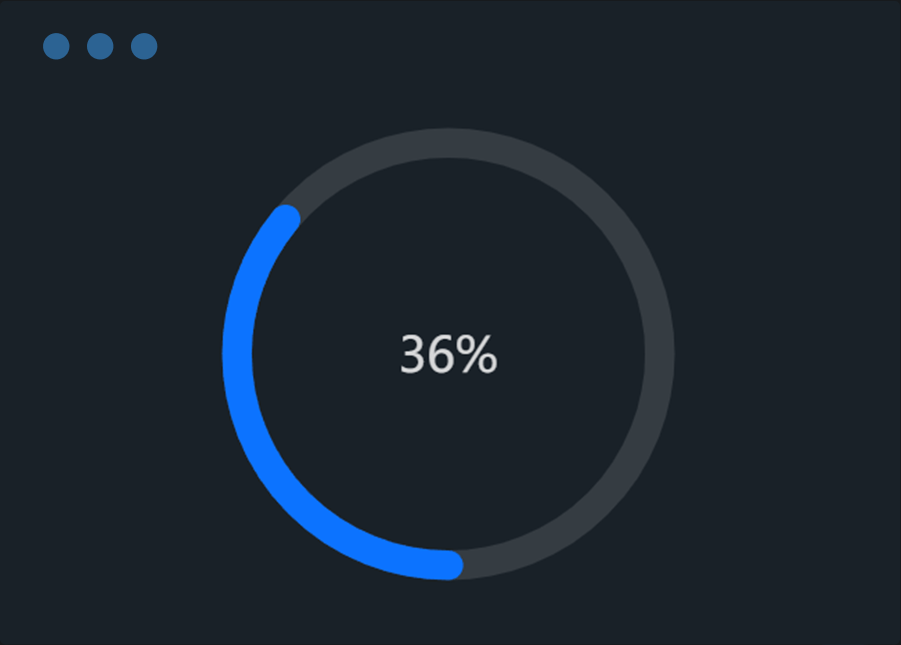
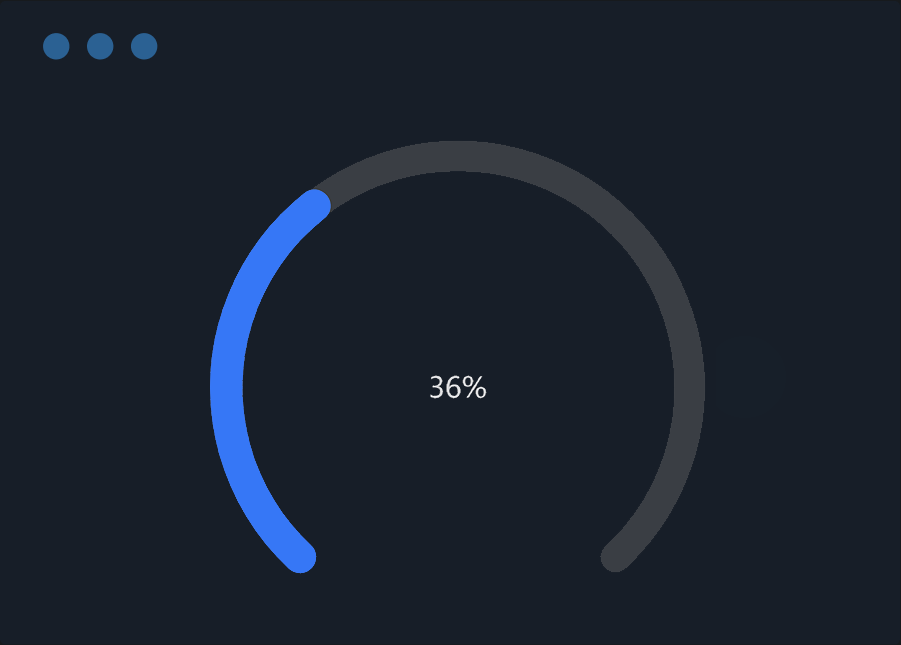
feat: 新增环形图，新增NaiveUI-进度组件

diff --git a/src/packages/components/Charts/Pies/PieCircle/config.vue b/src/packages/components/Charts/Pies/PieCircle/config.vue
@@ -1,0 +1,89 @@
+<template>
+  <!-- 遍历 seriesList -->
+  <CollapseItem v-for="(item, index) in config.series" :key="index" :name="`圆环`" :expanded="true">
+    <SettingItemBox name="数据">
+      <SettingItem name="数值">
+        <n-input-number v-model:value="config.dataset" :min="0" :max="1" :step="0.01" size="small" placeholder="数值">
+        </n-input-number>
+      </SettingItem>
+    </SettingItemBox>
+    <!-- Echarts 全局设置 -->
+    <SettingItemBox name="进度条">
+      <SettingItem name="颜色">
+        <n-color-picker
+          size="small"
+          :modes="['hex']"
+          v-model:value="item.data[0].itemStyle.color"
+        ></n-color-picker>
+      </SettingItem>
+      <SettingItem name="阴影模糊等级">
+        <n-input-number v-model:value="item.data[0].itemStyle.shadowBlur" :min="0" :max="50" :step="1" size="small" placeholder="阴影模糊等级">
+        </n-input-number>
+      </SettingItem>
+      <SettingItem name="阴影颜色">
+        <n-color-picker
+          size="small"
+          :modes="['hex']"
+          v-model:value="item.data[0].itemStyle.shadowColor"
+        ></n-color-picker>
+      </SettingItem>
+    </SettingItemBox>
+    <!-- 中心标题 -->
+    <SettingItemBox v-if="config.title" name="标题">
+      <SettingItem name="颜色">
+        <n-color-picker
+          size="small"
+          :modes="['hex']"
+          v-model:value="config.title.textStyle.color"
+        ></n-color-picker>
+      </SettingItem>
+      <SettingItem name="字体大小">
+        <n-input-number v-model:value="config.title.textStyle.fontSize" :min="0" :step="1" size="small" placeholder="字体大小">
+        </n-input-number>
+      </SettingItem>
+    </SettingItemBox>
+    <!-- 其他样式 -->
+    <SettingItemBox name="轨道样式">
+      <SettingItem name="颜色">
+        <n-color-picker
+          size="small"
+          :modes="['hex']"
+          v-model:value="item.data[1].itemStyle.color"
+        ></n-color-picker>
+      </SettingItem>
+      <SettingItem name="阴影模糊等级">
+        <n-input-number v-model:value="item.data[1].itemStyle.shadowBlur" :min="0" :step="1" size="small" placeholder="阴影模糊等级">
+        </n-input-number>
+      </SettingItem>
+      <SettingItem name="阴影颜色">
+        <n-color-picker
+          size="small"
+          :modes="['hex']"
+          v-model:value="item.data[1].itemStyle.shadowColor"
+        ></n-color-picker>
+      </SettingItem>
+    </SettingItemBox>
+  </CollapseItem>
+</template>
+
+<script setup lang="ts">
+import { PropType, computed } from 'vue'
+// 以下是封装的设置模块布局组件，具体效果可在官网查看
+import {
+  CollapseItem,
+  SettingItemBox,
+  SettingItem
+} from '@/components/Pages/ChartItemSetting'
+import { GlobalThemeJsonType } from '@/settings/chartThemes'
+
+const props = defineProps({
+  optionData: {
+    type: Object as PropType<GlobalThemeJsonType>,
+    required: true
+  }
+})
+
+const config = computed(() => {
+  return props.optionData
+})
+</script>

diff --git a/src/packages/components/Charts/Pies/PieCircle/index.vue b/src/packages/components/Charts/Pies/PieCircle/index.vue
@@ -1,0 +1,71 @@
+<template>
+  <v-chart ref="vChartRef" :theme="themeColor" :option="option.value" :manual-update="isPreview()" autoresize></v-chart>
+</template>
+
+<script setup lang="ts">
+import {computed, PropType, reactive, watch} from 'vue'
+import VChart from 'vue-echarts'
+import { use } from 'echarts/core'
+import { CanvasRenderer } from 'echarts/renderers'
+import { PieChart } from 'echarts/charts'
+import { mergeTheme } from '@/packages/public/chart'
+import config, { includes } from './config'
+import { useChartDataFetch } from '@/hooks'
+import { useChartEditStore } from '@/store/modules/chartEditStore/chartEditStore'
+import { isPreview } from '@/utils'
+import {
+  DatasetComponent,
+  GridComponent,
+  TooltipComponent,
+  LegendComponent,
+  TitleComponent,
+} from 'echarts/components'
+
+const props = defineProps({
+  themeSetting: {
+    type: Object,
+    required: true
+  },
+  themeColor: {
+    type: Object,
+    required: true
+  },
+  chartConfig: {
+    type: Object as PropType<config>,
+    required: true
+  }
+})
+
+use([
+  DatasetComponent,
+  CanvasRenderer,
+  PieChart,
+  GridComponent,
+  TooltipComponent,
+  LegendComponent,
+  TitleComponent
+])
+
+const option = reactive({
+  value: {}
+})
+
+watch(
+    () => props.chartConfig.option.dataset,
+    (newData) => {
+      // console.log('update:'+newData)
+      const d = parseFloat(`${newData}`) * 100
+      let config = props.chartConfig.option
+      config.title.text = d.toFixed(2) + "%"
+      config.series[0].data[0].value[0] = d
+      config.series[0].data[1].value[0] = 100 - d
+      option.value = mergeTheme(config, props.themeSetting, includes)
+      option.value = config
+    },
+    {
+      immediate: true,
+    }
+)
+
+const { vChartRef } = useChartDataFetch(props.chartConfig, useChartEditStore)
+</script>

diff --git a/src/packages/components/Charts/Pies/PieCircle/config.ts b/src/packages/components/Charts/Pies/PieCircle/config.ts
@@ -1,0 +1,63 @@
+import { echartOptionProfixHandle, publicConfig } from '@/packages/public'
+import { PieCircleConfig } from './index'
+import { CreateComponentType } from '@/packages/index.d'
+
+export const includes = ['legend']
+const option = {
+  tooltip: {
+    show: true,
+    trigger: 'item'
+  },
+  legend: {
+    show: true,
+  },
+  dataset: 0.25,
+  title: {
+    text: 25 + "%",
+    x: "center",
+    y: "center",
+    textStyle: {
+      color: "#56B9F8",
+      fontSize: 30
+    }
+  },
+  series: [
+    {
+      type: "pie",
+      radius: ["75%", "80%"],
+      center: ["50%", "50%"],
+      hoverAnimation: true,
+      color: ["#00bcd44a", "transparent"],
+      label: {
+        show: false
+      },
+      data: [
+        {
+          value: [25],
+          itemStyle: {
+            color: "#03a9f4",
+            shadowBlur: 10,
+            shadowColor:"#97e2f5"
+          }
+        },
+        {
+          value: [75],
+          itemStyle: {
+            color: "#00bcd44a",
+            shadowBlur: 0,
+            shadowColor:"#00bcd44a"
+          }
+        }
+      ]
+    },
+  ]
+}
+
+export default class Config extends publicConfig implements CreateComponentType {
+  public key: string = PieCircleConfig.key
+
+  public chartConfig = PieCircleConfig
+
+  // 图表配置项
+  public option = echartOptionProfixHandle(option, includes)
+}

diff --git a/src/packages/components/Charts/Mores/Process/config.vue b/src/packages/components/Charts/Mores/Process/config.vue
@@ -38,7 +38,7 @@ import {
 } from '@/components/Pages/ChartItemSetting'
 
 // 获取 option 的数据，便于使用 typeof 获取类型
-import { option } from './config'
+import { option, types, indicatorPlacements} from './config'
 
 const props = defineProps({
   optionData: {
@@ -46,30 +46,4 @@ const props = defineProps({
     required: true
   }
 })
-
-const types = [
-  {
-    label: '线形',
-    value: 'line'
-  },
-  {
-    label: '圆形',
-    value: 'circle'
-  },
-  {
-    label: '仪表盘',
-    value: 'dashboard'
-  },
-]
-
-const indicatorPlacements = [
-  {
-    label: '里面',
-    value: 'inside'
-  },
-  {
-    label: '外边',
-    value: 'outside'
-  }
-]
 </script>

diff --git a/src/packages/components/Charts/Mores/Process/config.ts b/src/packages/components/Charts/Mores/Process/config.ts
@@ -4,9 +4,36 @@ import { ProcessConfig } from './index'
 import { chartInitConfig } from '@/settings/designSetting'
 import cloneDeep from 'lodash/cloneDeep'
 
+
+export const types = [
+  {
+    label: '线形',
+    value: 'line'
+  },
+  {
+    label: '圆形',
+    value: 'circle'
+  },
+  {
+    label: '仪表盘',
+    value: 'dashboard'
+  },
+]
+
+export const indicatorPlacements = [
+  {
+    label: '内部',
+    value: 'inside'
+  },
+  {
+    label: '外部',
+    value: 'outside'
+  }
+]
+
 export const option = {
   dataset: 36,
-  type: "circle",
+  type: types[2].value,
   color: '#4992FFFF',
   // 指标位置（线条时可用）
   indicatorPlacement: "outside"

diff --git a/src/packages/components/Charts/Pies/PieCircle/index.ts b/src/packages/components/Charts/Pies/PieCircle/index.ts
@@ -1,0 +1,14 @@
+import image from '@/assets/images/chart/charts/pie-circle.png'
+import { ConfigType, PackagesCategoryEnum } from '@/packages/index.d'
+import { ChatCategoryEnum, ChatCategoryEnumName } from '../../index.d'
+
+export const PieCircleConfig: ConfigType = {
+  key: 'PieCircle',
+  chartKey: 'VPieCircle',
+  conKey: 'VCPieCircle',
+  title: '饼图-环形',
+  category: ChatCategoryEnum.PIE,
+  categoryName: ChatCategoryEnumName.PIE,
+  package: PackagesCategoryEnum.CHARTS,
+  image
+}

diff --git a/src/packages/components/Decorates/Mores/Number/config.vue b/src/packages/components/Decorates/Mores/Number/config.vue
@@ -28,6 +28,13 @@
           <n-text>展示分割符</n-text>
         </n-space>
       </SettingItem>
+      <SettingItem name="精度">
+        <n-input-number
+          v-model:value="optionData.precision"
+          size="small"
+          :min="0"
+        ></n-input-number>
+      </SettingItem>
     </SettingItemBox>
 
     <SettingItemBox name="数值">

diff --git a/src/packages/components/Decorates/Mores/Number/index.vue b/src/packages/components/Decorates/Mores/Number/index.vue
@@ -11,6 +11,7 @@
         :to="to"
         :duration="dur * 1000"
         :show-separator="showSeparator"
+        :precision="precision"
       ></n-number-animation>
     </span>
     <template #suffix>
@@ -42,6 +43,7 @@ const {
   suffixColor,
   from,
   to,
+  precision,
   numberSize,
   numberColor,
 } = toRefs(props.chartConfig.option)

diff --git a/src/packages/components/Charts/Mores/Process/index.ts b/src/packages/components/Charts/Mores/Process/index.ts
@@ -13,7 +13,7 @@ export const ProcessConfig: ConfigType = {
   // 配置组件渲染 Components 格式: VC + key
   conKey: 'VCProcess',
   // 名称
-  title: '多类进度条',
+  title: 'NaiveUI-进度',
   // 子分类目录
   category: ChatCategoryEnum.MORE,
   // 子分类目录

diff --git a/src/packages/components/Charts/index.ts b/src/packages/components/Charts/index.ts
@@ -4,4 +4,4 @@ import Lines from './Lines'
 import Mores from './Mores'
 import Maps from './Maps'
 
-export const ChartList = [...Bars, ...Pies, ...Lines, ...Maps , ...Mores]
+export const ChartList = [...Bars, ...Pies, ...Lines, ...Maps, ...Mores]

diff --git a/src/packages/components/Charts/Pies/index.ts b/src/packages/components/Charts/Pies/index.ts
@@ -1,3 +1,4 @@
 import { PieCommonConfig } from './PieCommon/index'
+import { PieCircleConfig } from './PieCircle/index'
 
-export default [PieCommonConfig]
+export default [PieCommonConfig, PieCircleConfig]

diff --git a/src/packages/components/Decorates/Mores/Number/config.ts b/src/packages/components/Decorates/Mores/Number/config.ts
@@ -7,6 +7,7 @@ export const option = {
   from: 50000,
   to: 100000,
   dur: 3,
+  precision: 0,
   showSeparator: true,
   numberSize: 24,
   numberColor: '#4a9ef8',
